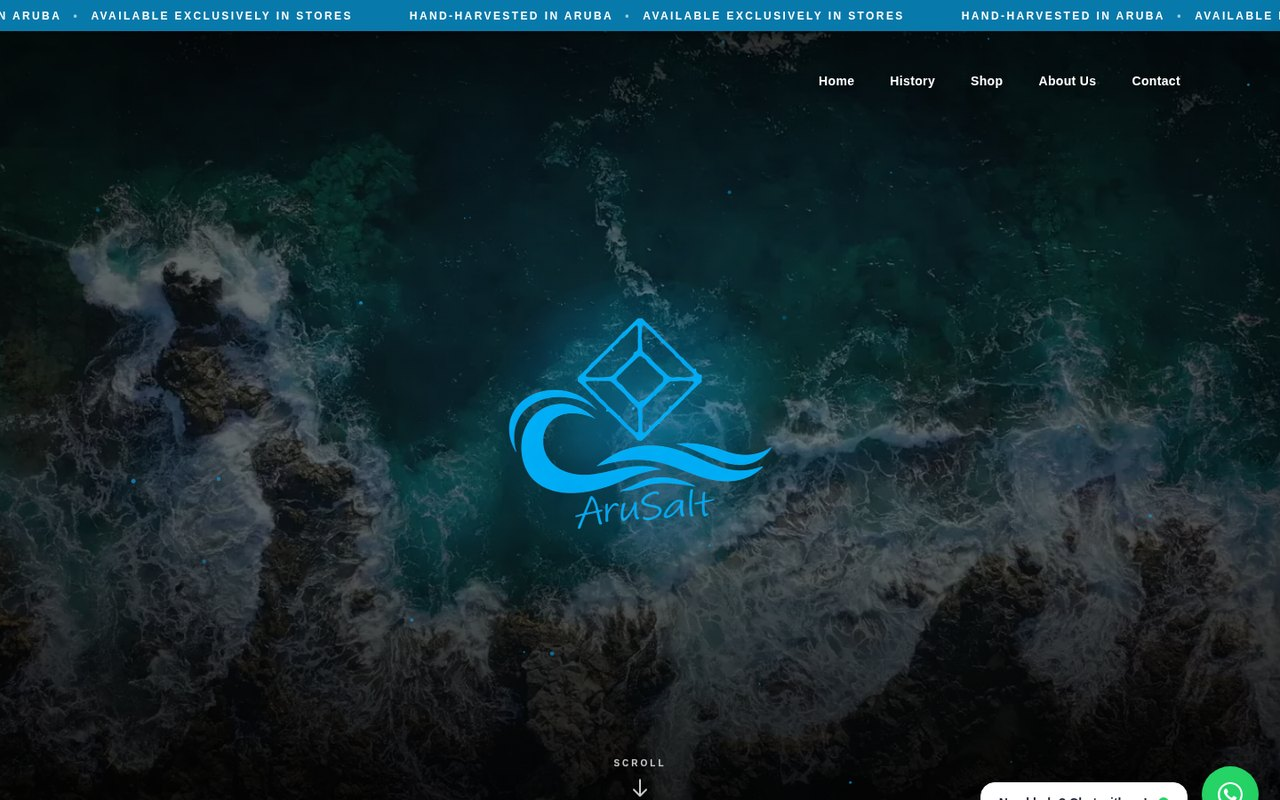
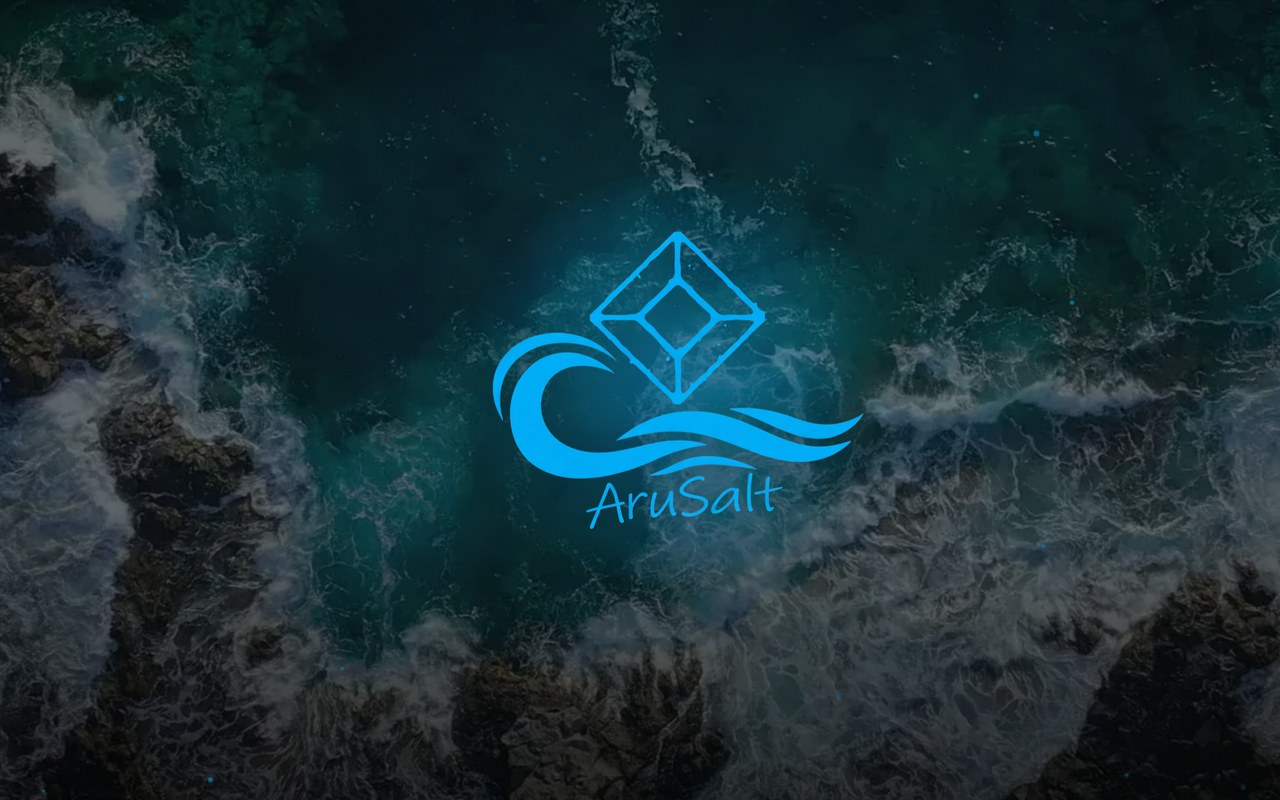
Reframe the AruSalt shot around the mark
The phone screenshot of the live site confirmed the earlier capture was
accurate but showed the framing was wrong: on mobile the mark fills the
screen, while the desktop crop left it around a tenth of the frame width, so
at portfolio-card size the crystal was barely legible.

Recaptured at 1600 wide with a 2x device scale, located the mark in the DOM
and cropped a 16:10 window around its true visual centre — lower and left of
the diamond alone, since the wave and wordmark carry weight below it. The
vendor chat widget is hidden for the capture; it belongs to their live site,
not to the design being shown.

Caption now describes what is actually in the frame rather than the cart and
shipping that are no longer visible in it.

Claude-Session: https://claude.ai/code/session_01LFTekX8QSUNPMbjfU5x5d8

diff --git a/index.html b/index.html
@@ -345,8 +345,8 @@
         <div class="meta">
           <span class="tag">Producer · e-commerce</span>
           <h4>AruSalt</h4>
-          <p>Hand-harvested sea salt from Aruba. Product pages, cart and shipping for a
-          producer selling off the island.</p>
+          <p>Hand-harvested sea salt from Aruba. The crystal mark set over an aerial of
+          the reef it comes from, with the shop behind it.</p>
           <span class="live">arusalt.com</span>
         </div>
       </a>
